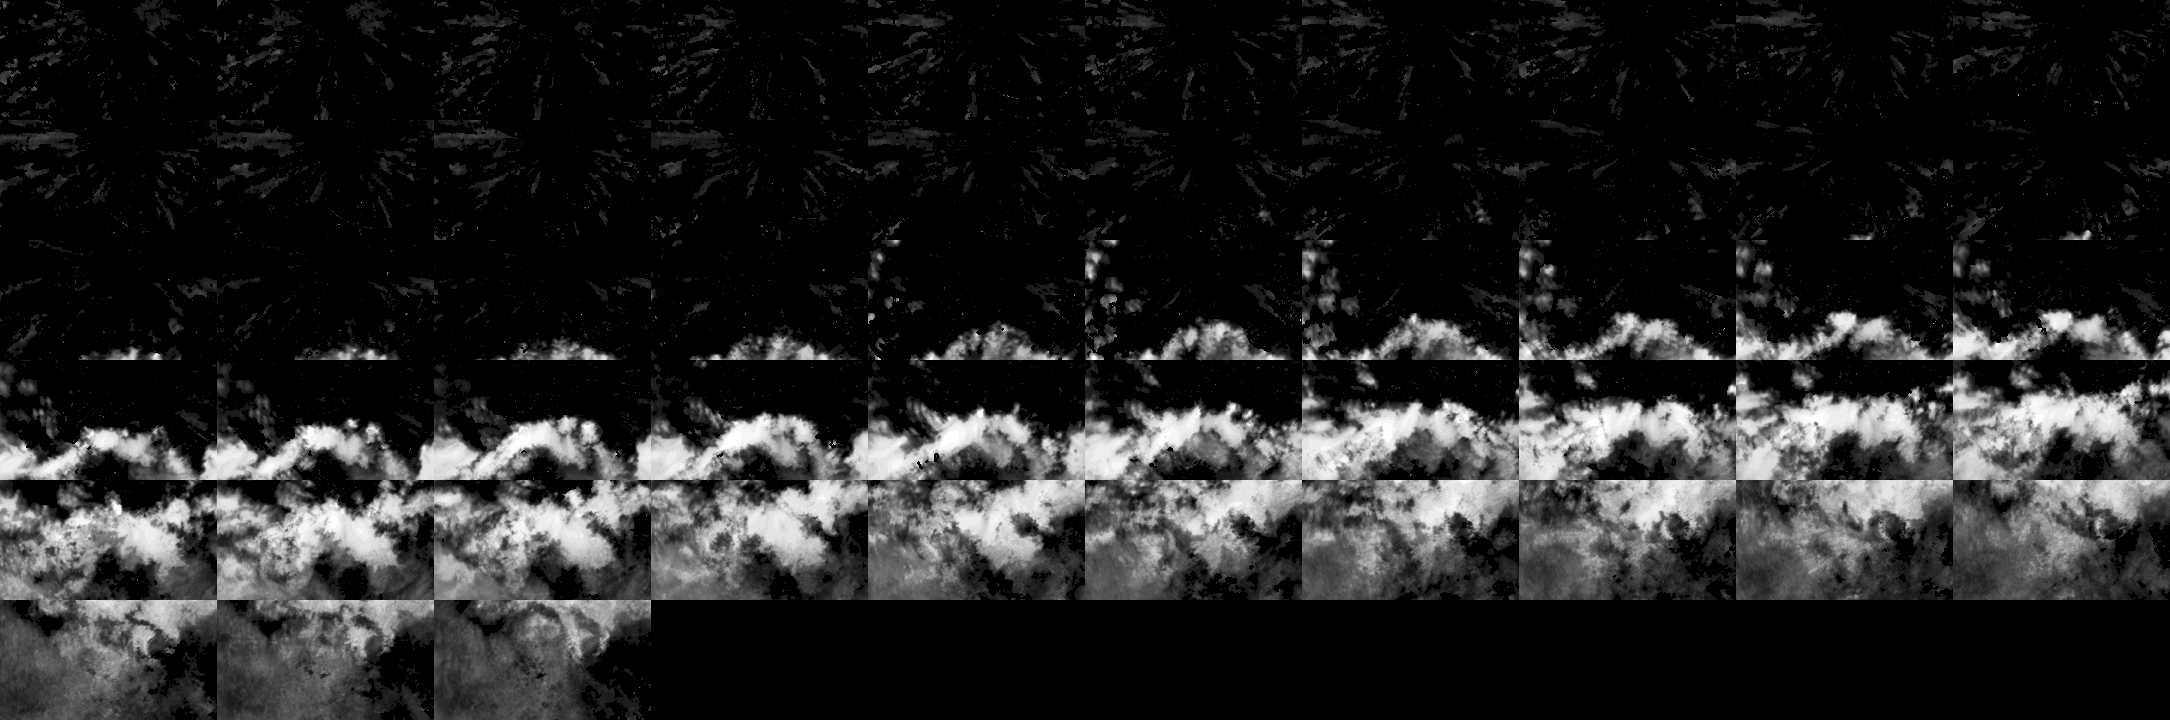
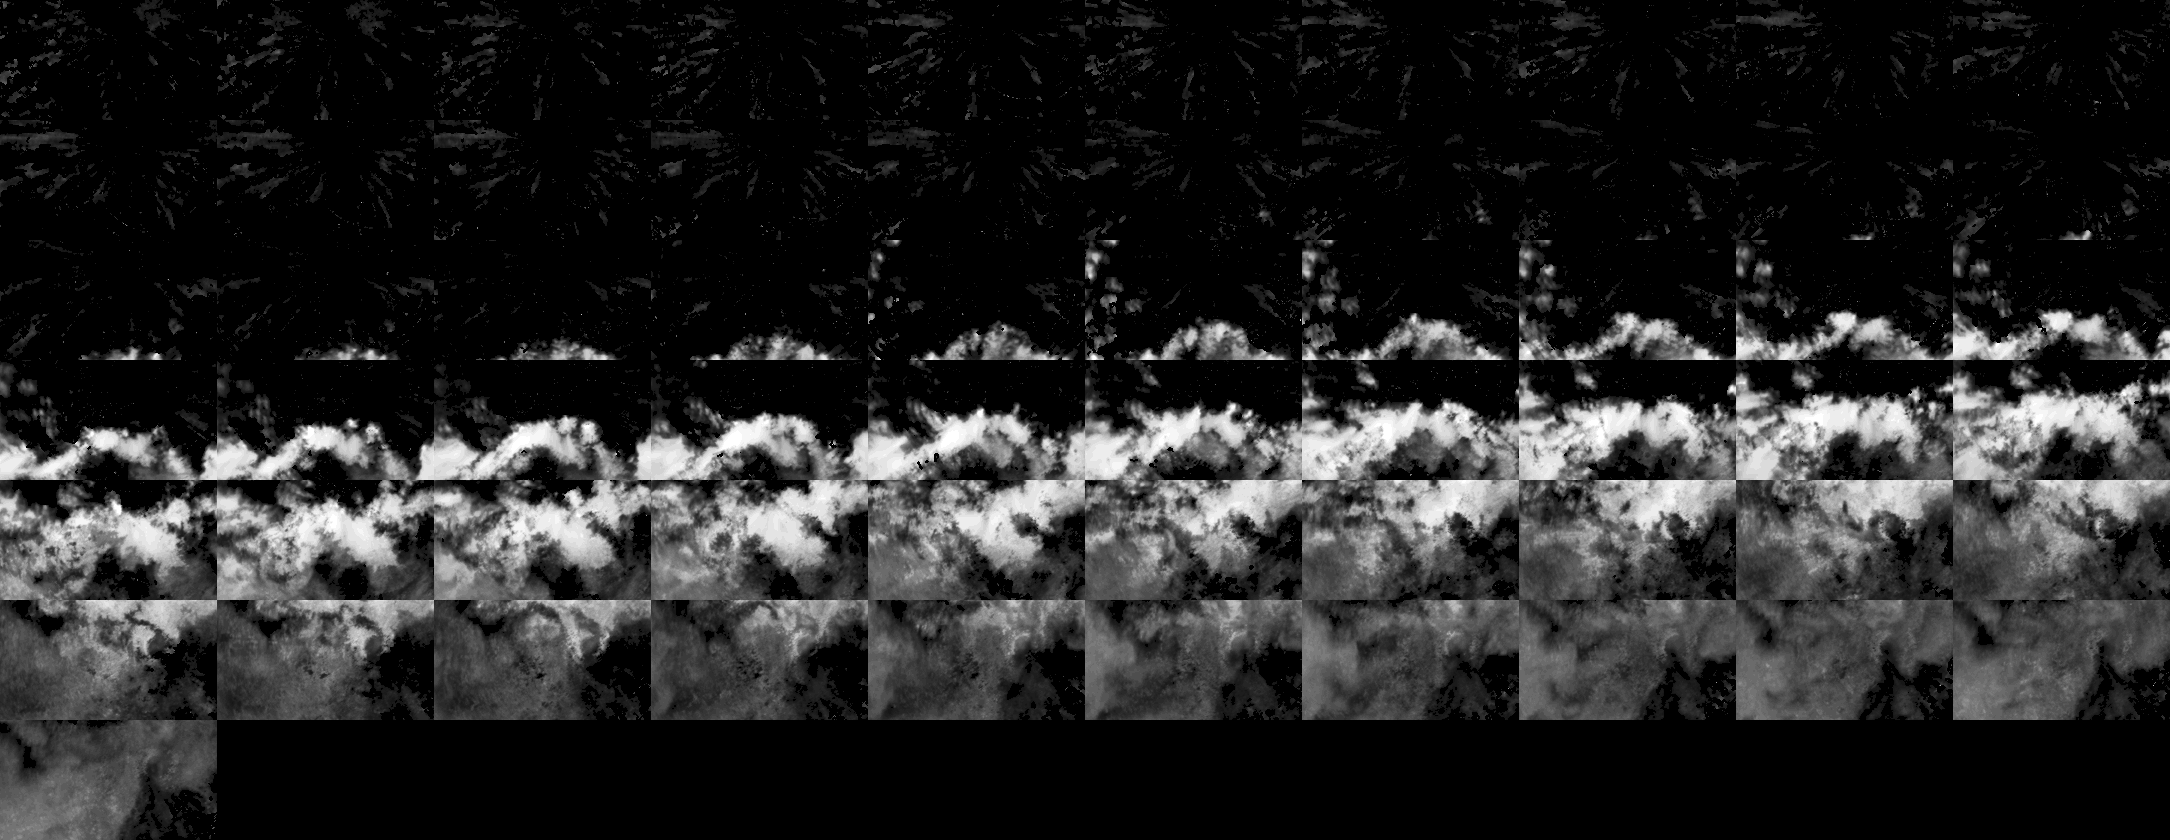
docs(results): recalibrated 60-min warning rule and extrapolation as the recommended 60-min heavy-rain warning
RESULTS 2b + tried-list, README roadmap and scorecard, dashboard note (new warning60 block).
Dashboard rebuild also extends the 27 Sep observed loop to the full case window (archive now complete).

Claude-Session: https://claude.ai/code/session_01N11YrrRrkW4yMnJiVWkWt2

diff --git a/dashboard/app.js b/dashboard/app.js
@@ -476,6 +476,14 @@ function evidence(D) {
     `yet: at 30 minutes it gave ${only.warnings.toLocaleString()} such warnings, ${only.came_true} came true — about ` +
     `${pc(only.share_of_all_heavy_rain)} of all downpours flagged before they arrived, which the naive forecast can never do — ` +
     `but ${pc(1 - only.precision)} of those early warnings were false alarms. At 60 and 90 minutes it is no better than the naive forecast.`;
+  const W60 = R.warning60;
+  if (W60) $('ev-warn-note').innerHTML +=
+    `<br><br><b>60 minutes ahead, use plain extrapolation for heavy-rain warnings.</b> Simply moving the latest radar map along ` +
+    `its recent motion catches ${pc(W60.extrap.catch_rate)} of downpours and is right ${pc(W60.extrap.precision)} of the time. ` +
+    `Re-tuning the AI model's warning rule (warn when ${W60.rule.k} of 8 futures show ${W60.rule.X} mm/hr) lifts its catch from ` +
+    `${pc(W60.uncal.catch_rate)} to ${pc(W60.cal.catch_rate)}, right ${pc(W60.cal.precision)} of the time — better, but still not ` +
+    `better than extrapolation, and the gain was not stable across random draws. Combining the two catches ${pc(W60.hybrid.catch_rate)} ` +
+    `but is right only ${pc(W60.hybrid.precision)} of the time.`;
 }
 
 function live() {

diff --git a/scripts/build_dashboard.py b/scripts/build_dashboard.py
@@ -14,6 +14,7 @@ per pixel:
 The radar is ~97% dry, so these compress to a few KB per frame.
 
 Inputs:  data/processed/radar.zarr, data/processed/eval_cache/case_<name>_lead*.npz, results/warning_skill.json,
+         results/warning_calibration.json, results/hybrid_warning.json,
          data/processed/flood_eval_dataset.parquet, data/processed/flood_prone_areas.geojson,
          results/*.json, checkpoints/nowcaster/ckpt_step_300000.pt (denoising demo, GPU optional)
 Output:  dashboard/data/*.png, dashboard/data/data.json, dashboard/data/radar240/*.png
@@ -221,6 +222,13 @@ def export_results() -> dict:
         res["flood_events"][str(L)]["excluded_in_sample"] = D["excluded_in_sample"]
     # plain-language warning skill (scripts/warning_skill.py)
     res["warning"] = json.loads((ROOT / "results" / "warning_skill.json").read_text())["by_lead"]
+    # recalibrated 60-min rule and the hybrid comparison (scripts/warning_calibration.py, hybrid_warning.py)
+    cal = json.loads((ROOT / "results" / "warning_calibration.json").read_text())["by_lead"]["60"]
+    hyb = json.loads((ROOT / "results" / "hybrid_warning.json").read_text())
+    res["warning60"] = {"rule": cal["chosen"], "verdict": cal["verdict"],
+                        "cal": cal["test"]["calibrated"], "uncal": cal["test"]["uncalibrated"],
+                        "extrap": hyb["scores"]["extrap"], "hybrid": hyb["scores"]["H"],
+                        "hybrid_verdict": hyb["verdict"]}
     return res
 
 

diff --git a/docs/RESULTS.md b/docs/RESULTS.md
@@ -75,6 +75,26 @@ naive forecast overall; its distinctive contribution is warnings where the radar
 such warnings, 200 verified (24%) — 16% of all heavy-rain boxes flagged before arrival, at the cost of 76% false
 alarms among those. At 60/90 min it is no better than persistence for heavy rain.
 
+**Recalibrated warning rule and the recommended 60-min warning** (`scripts/warning_calibration.py`,
+`scripts/hybrid_warning.py` → `results/warning_calibration.json`, `results/hybrid_warning.json`). The model
+under-forecasts intensity, so its futures rarely reach 10 mm/hr. The rule "≥ k of 8 futures ≥ X mm/hr" was re-chosen
+by CSI (hits / (hits + false alarms + misses)) on validation (2–14 Sep) only, from X ∈ {3…10}, k ∈ {1…4}, then
+scored on the same test forecasts as the table above:
+
+| Lead | Rule chosen | CSI old → new [95% of diff] | Catches | Right | Adopted? |
+|---|---|---|---|---|---|
+| 30 | ≥4 of 8 ≥ 5 mm/hr | 0.18 → 0.21 [−0.03, +0.08] | 29% → 27% | 32% → 52% | no |
+| 60 | ≥2 of 8 ≥ 3 mm/hr | 0.02 → 0.11 [+0.02, +0.17] | 3% → **35%** | 7% → 14% | **yes** |
+| 90 | ≥2 of 8 ≥ 3 mm/hr | 0.04 → 0.09 [−0.00, +0.10] | 7% → 39% | 10% → 10% | no |
+
+The 60-min gain is **fragile**: on a second set of ensemble seeds it is in the same direction (CSI 0.05 → 0.10) but
+its CI includes 0, and 3 mm/hr is the lowest threshold tried. Even recalibrated, the model does not beat **plain
+optical-flow extrapolation**, which is the **recommended 60-min heavy-rain warning** (catches 17%, right 19%, CSI 0.10).
+A hybrid (warn if either extrapolation or the recalibrated model warns) catches 38% and flags 33% of incoming
+downpours vs 13%, but is right only 13% of the time; its CSI (0.107 vs 0.100, diff CI [−0.03, +0.05]) is not
+better, so under the rule fixed in advance it was not adopted. Before the 23 out-of-sample drain alerts (§3b) the
+hybrid warned for all 23 (median 87 min ahead) and extrapolation for all 23 (69 min); three storms, context only.
+
 ## 3. Recorded flash-flood events (out of sample only)
 
 Family D of `evaluate_probabilistic.py`. Ground truth: PUB flood alerts (Telegram), geocoded to the
@@ -170,3 +190,4 @@ Recorded in `results/ablations/` and `tasks/lessons.md`:
 | ERA5 weather vector fed to the 30-min model | Did not help: FSS ≥10 −0.076 [−0.095, −0.031] vs a same-budget control; the control itself was worse than the base (fine-tuning LR restart) | L032, L033, `results/era5_conditioning.json` |
 | Wide 240 km radar, extrapolated, as the missing heavy-rain information | NO-GO: catches no more incoming heavy rain than the same method on the 70 km footprint (60 min: −0.010 [−0.027, +0.008]). Incoming heavy rain mostly forms, not arrives. Side finding: that simple extrapolation beats the 60-min model on heavy rain | `tasks/plan_stage7_heavy_rain.md`, `results/spike_240km.json`, L034 |
 | Motion forecast as an extra input to the 60-min model | Better light-rain placement (FSS ≥2 +0.057 [+0.005, +0.090] vs control) but worse heavy rain (catch −0.014 [−0.026, −0.004]). Plain extrapolation catches 17% of heavy-rain boxes vs the model's 7% (catch difference −0.106 [−0.178, −0.029]): at 60 min the bottleneck is intensity, not information | `tasks/plan_motion_input.md`, `results/motion_input.json`, L035 |
+| Recalibrated heavy-rain warning rule; hybrid (extrapolation OR model) 60-min warning | 60-min rule adopted (catch 3% → 35%, CSI 0.02 → 0.11; fragile across seeds); 30/90 not adopted. The hybrid catches more (38% vs 17%) but is right less often (13% vs 19%): CSI not better than extrapolation, which stays the 60-min heavy-rain warning (§2b) | `tasks/plan_hybrid_calibration.md`, `results/warning_calibration.json`, `results/hybrid_warning.json` |

diff --git a/README.md b/README.md
@@ -29,7 +29,7 @@ Screenshots from the [live dashboard](https://beese54.github.io/singapore-diffus
 | ![Overview: headline numbers and why flash-flood nowcasting matters](docs/img/dashboard/1_overview.jpg) | ![Flood explorer: at 10:35 on 27 Sep the AI model warns of heavy rain, the naive forecast does not, and heavy rain fell](docs/img/dashboard/2_flood_explorer_27sep.jpg) |
 | **Overview.** What the model does, the headline numbers, and why minutes matter. | **Would it have warned us?** The 10:35 forecast for the 27 Sep flood: the model warns (3 of 8 futures), the naive forecast doesn't, heavy rain came. |
 | ![Chart: the model's warning bars rise before the observed rain at the flood site](docs/img/dashboard/3_flood_site_chart_27sep.jpg) | ![Scorecard: catch rate and precision of heavy-rain warnings by lead time](docs/img/dashboard/4_when_it_warns_is_it_right.jpg) |
-| **Warnings before the rain.** Bars (model warnings) rise before the bold line (observed rain); red dashes mark the flood report. | **The honest scorecard.** 30 min ahead: catches 29% of downpours, right 1 time in 3 (27× chance); 60/90 min: no better than the naive forecast. |
+| **Warnings before the rain.** Bars (model warnings) rise before the bold line (observed rain); red dashes mark the flood report. | **The honest scorecard.** 30 min ahead: catches 29% of downpours, right 1 time in 3 (27× chance); 60/90 min: no better than the naive forecast (at 60 min, plain extrapolation is the better heavy-rain warning). |
 | ![Noise to rain: the diffusion model's 50-step denoising](docs/img/dashboard/5_noise_to_rain.jpg) | ![What comes next: NEA's 240 km radar and the Phase 2 plan](docs/img/dashboard/6_whats_next_240km_radar.jpg) |
 | **How it draws a forecast.** From random noise to a rain map in 50 steps, guided by the last 30 minutes of radar. | **What comes next.** The wider 240 km radar, satellite, NVIDIA CorrDiff, and PUB's drain-sensor alerts as flood ground truth. |
 
@@ -115,8 +115,12 @@ is written up with the evidence in [docs/LESSONS.md](docs/LESSONS.md).
   - the 240 km wide-range radar, extrapolated (collected, gap-watched and georeferenced from Sep 2026).
 - **Motion forecast as an extra input (done):** the 60-min model placed light rain better but still smoothed
   away heavy rain. For 60-min heavy-rain warnings, plain optical-flow extrapolation is better than any
-  diffusion model tried (catches 17% vs 7%). **Next:** a hybrid (extrapolation for heavy-rain warnings, the model
-  for probabilities) or calibrating the ensemble's heavy-rain probability.
+  diffusion model tried (catches 17% vs 7%).
+- **Warning calibration and a hybrid warning (done):** re-choosing the 60-min model's warning rule on validation
+  lifts its heavy-rain catch from 3% to 35% (CSI 0.02 → 0.11; fragile across random seeds), but it still does not
+  beat extrapolation. A hybrid of the two catches 38% but is right only 13% of the time, so it did not beat
+  extrapolation either. **Plain extrapolation is the recommended 60-min heavy-rain warning**; the diffusion model
+  stays the probability and rain-amount forecast ([Results §2b](docs/RESULTS.md)).
 - **Satellite (Himawari-9)**, to see clouds growing before they rain, following NVIDIA's Earth-2 Nowcasting design
   (StormScope: satellite + radar).
 - **Drain-alert benchmark:** done ([Results §3b](docs/RESULTS.md)); per-location flood model once alerts accumulate.

diff --git a/tasks/todo.md b/tasks/todo.md
@@ -24,7 +24,7 @@
 - [ ] D2 Rain-gauge API history depth (data.gov.sg)
 - [x] D3 Stage 7 Step 1 spike (2026-09-28): **NO-GO** — wide-view extrapolation catches no more incoming heavy rain than the 70 km footprint (results/spike_240km.json). Side finding: DIS extrapolation beats the 60-min model on heavy rain -> next candidate: motion-aware input (needs a plan). Satellite next for initiation.
 - [x] Motion input for the 60-min model (2026-09-29): **DO NOT KEEP** — light rain better, heavy rain worse vs control; plain extrapolation beats every model on 60-min heavy-rain warnings (results/motion_input.json). Next candidates: hybrid warning (extrapolation + model) or heavy-rain probability calibration; satellite.
-- [x] Heavy-rain warning calibration + hybrid 60-min warning (2026-09-29): 60-min calibrated rule (>=2 of 8 >= 3 mm/hr) **ADOPTED** vs the old rule (CSI 0.023 -> 0.112; fragile on a second seed set); 30/90 not adopted. Hybrid does **not** beat extrapolation on CSI -> **extrapolation alone is the 60-min heavy-rain warning**. Verdicts in `tasks/plan_hybrid_calibration.md`. Docs (RESULTS/README/dashboard) update pending user OK.
+- [x] Heavy-rain warning calibration + hybrid 60-min warning (2026-09-29): 60-min calibrated rule (>=2 of 8 >= 3 mm/hr) **ADOPTED** vs the old rule (CSI 0.023 -> 0.112; fragile on a second seed set); 30/90 not adopted. Hybrid does **not** beat extrapolation on CSI -> **extrapolation alone is the 60-min heavy-rain warning**. Verdicts in `tasks/plan_hybrid_calibration.md`. Docs updated (RESULTS §2b + tried-list, README roadmap/scorecard, dashboard note).
 
 > **RESUME HERE (2026-09-29, before a shutdown):** nothing is running and every result is committed and pushed. Collection resumes on its own through the scheduled tasks. After a restart, run `python scripts/check_radar_gaps.py --status`: gaps younger than 120 h heal automatically, and older 240 km gaps show a fix command. Next: get approval for `tasks/plan_hybrid_calibration.md`, then implement it. Satellite (Himawari-9) comes after that.
 
